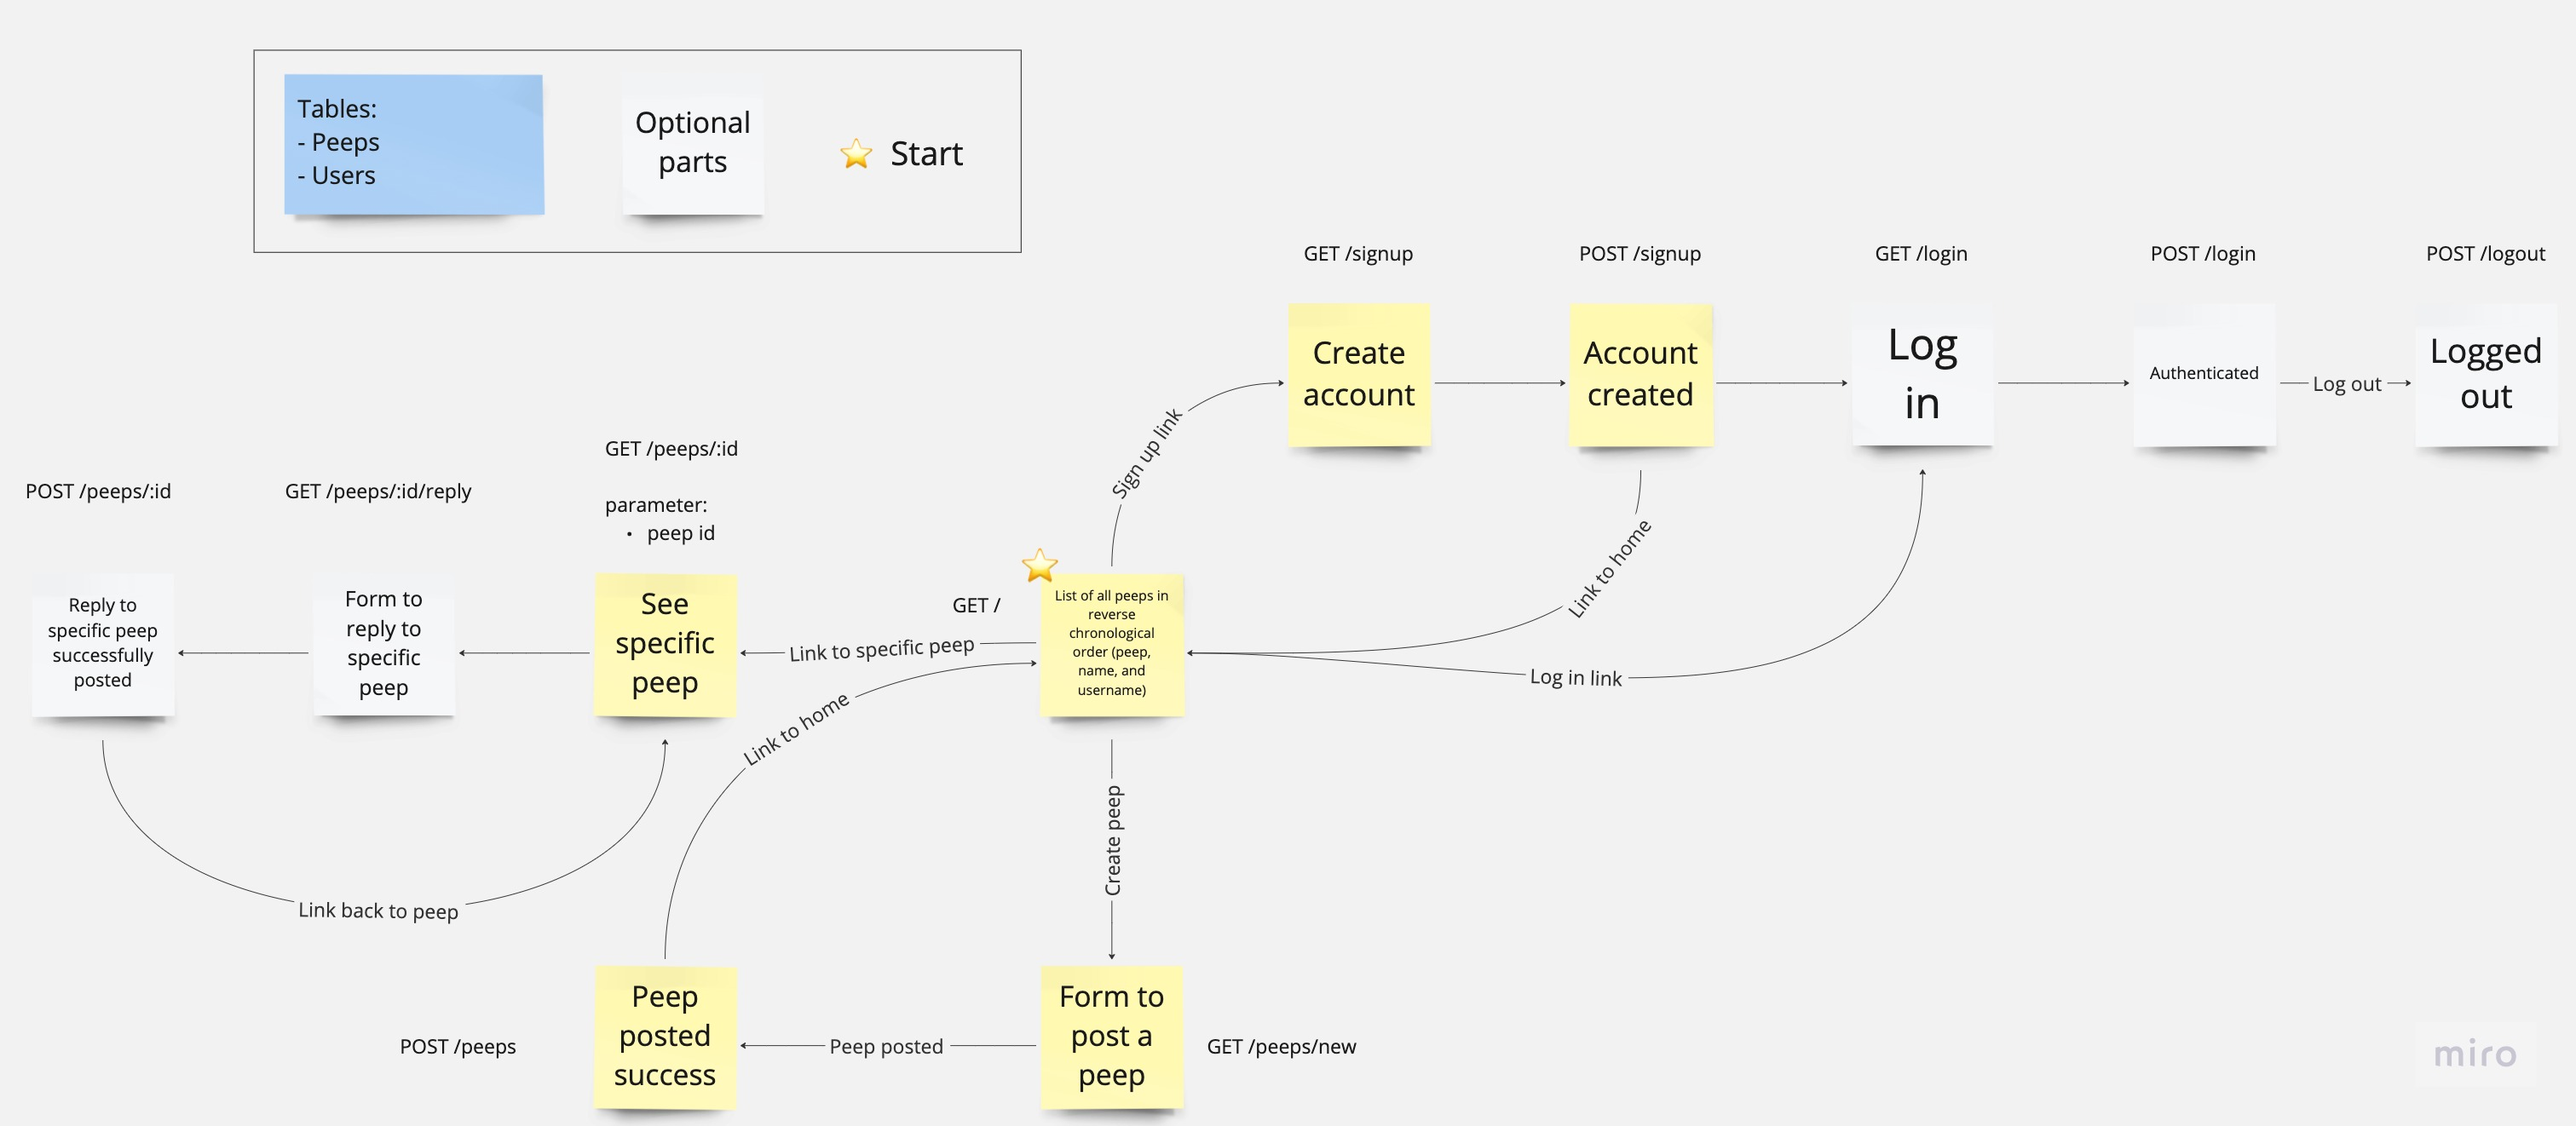
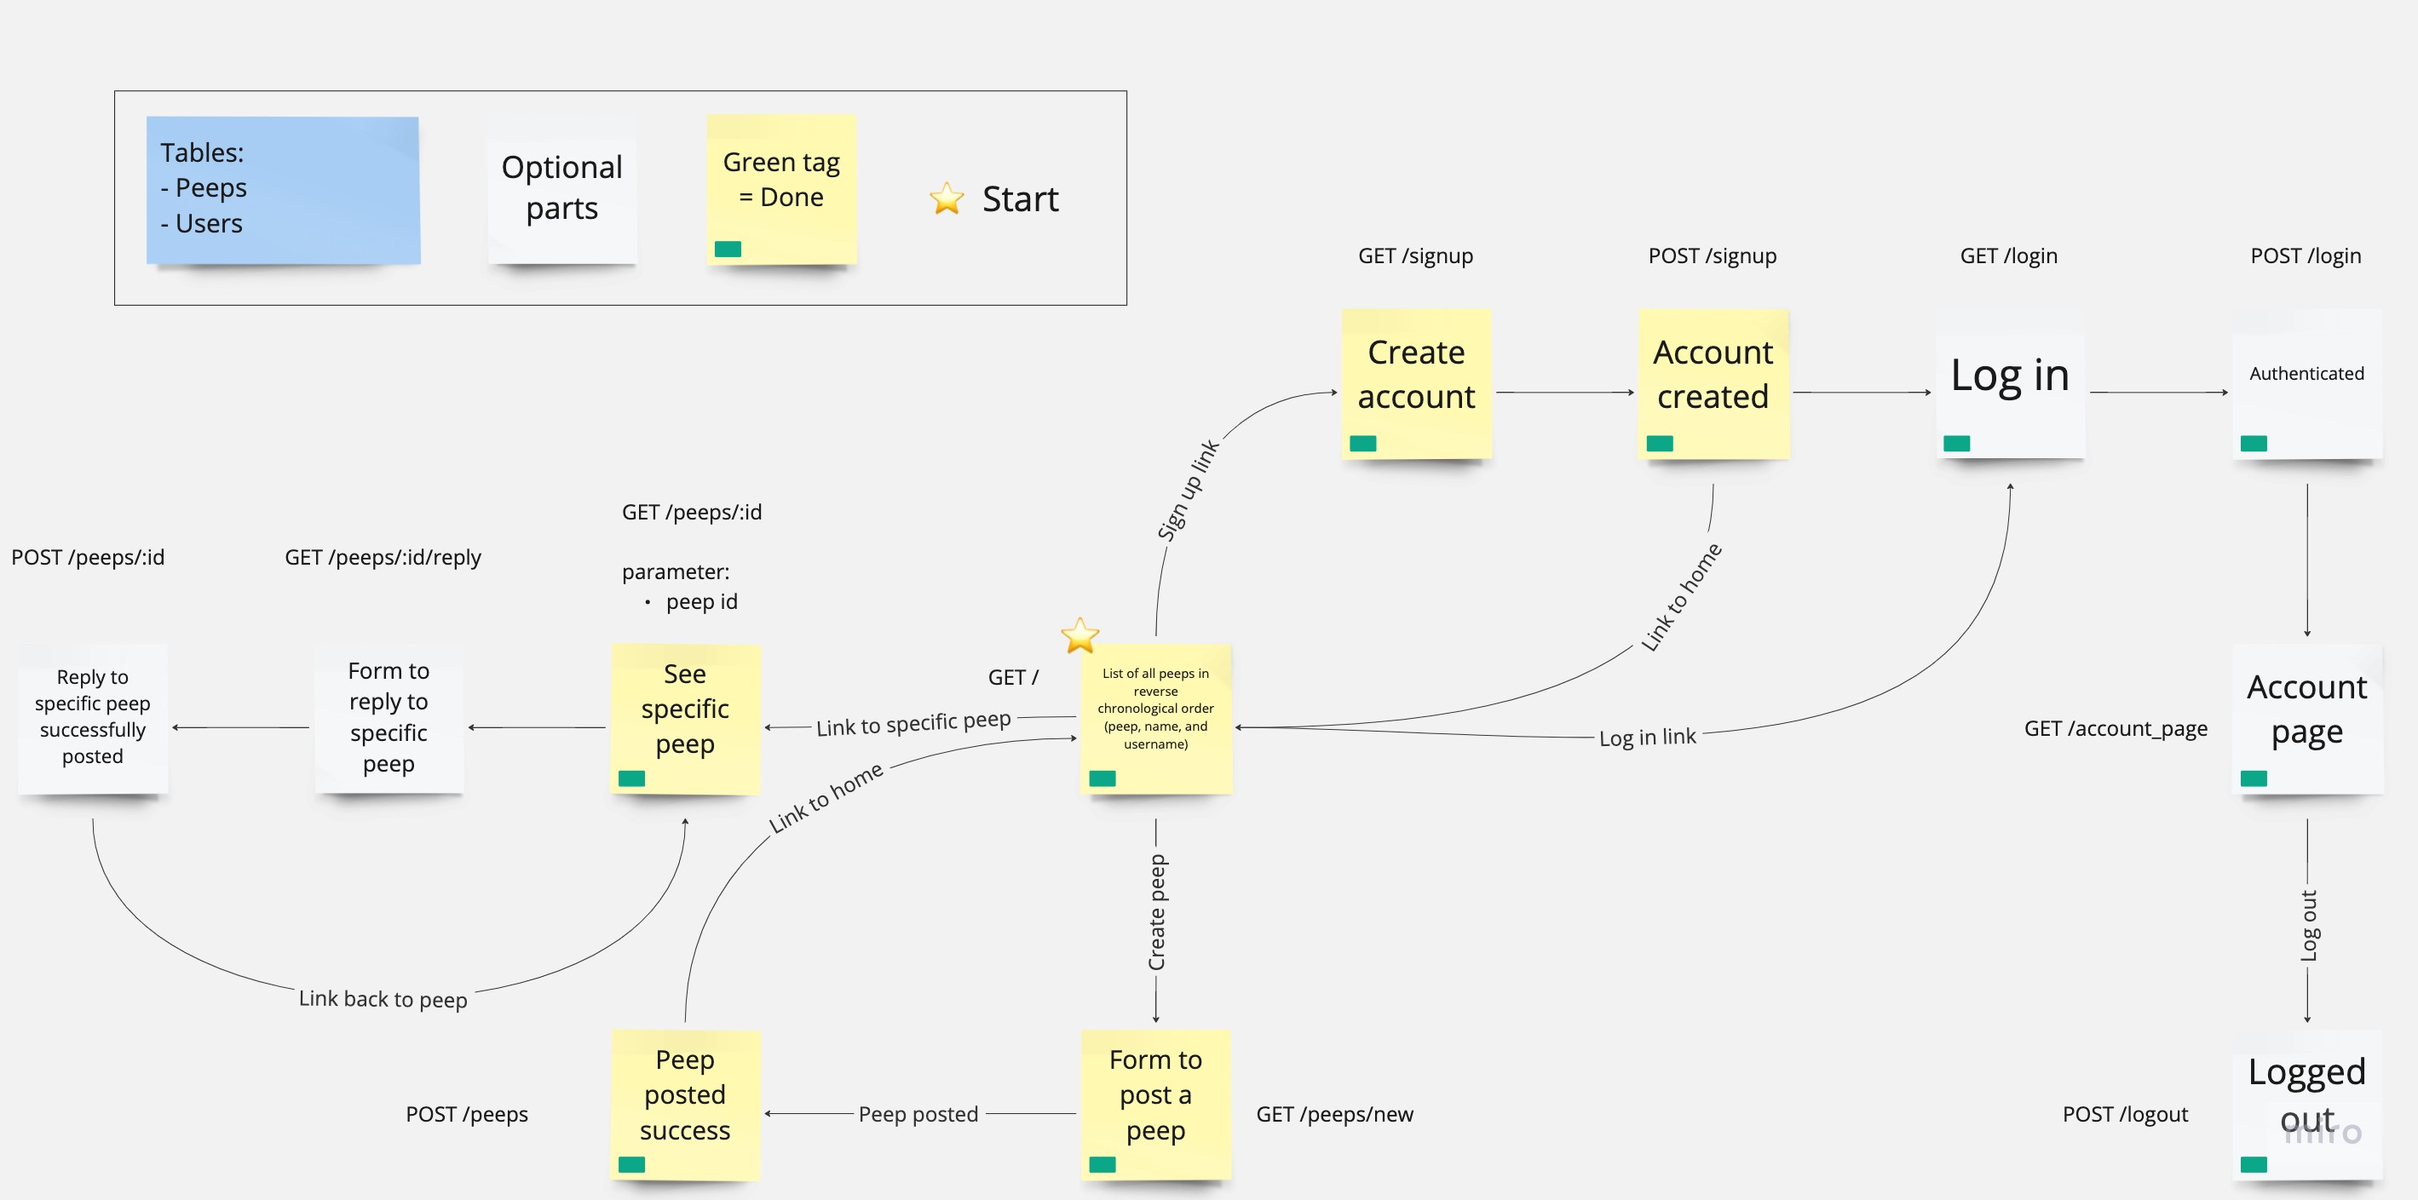
Updated chitter design

diff --git a/README.md b/README.md
@@ -35,3 +35,8 @@ You can then view existing peeps. In order to post a peep, you must sign up for 
 * Bonus Features
   * [ ] Replying to peeps
   * [ ] CSS styling
+
+
+
+## Design
+![Screenshot](https://imgur.com/a/ISlI4uD)
